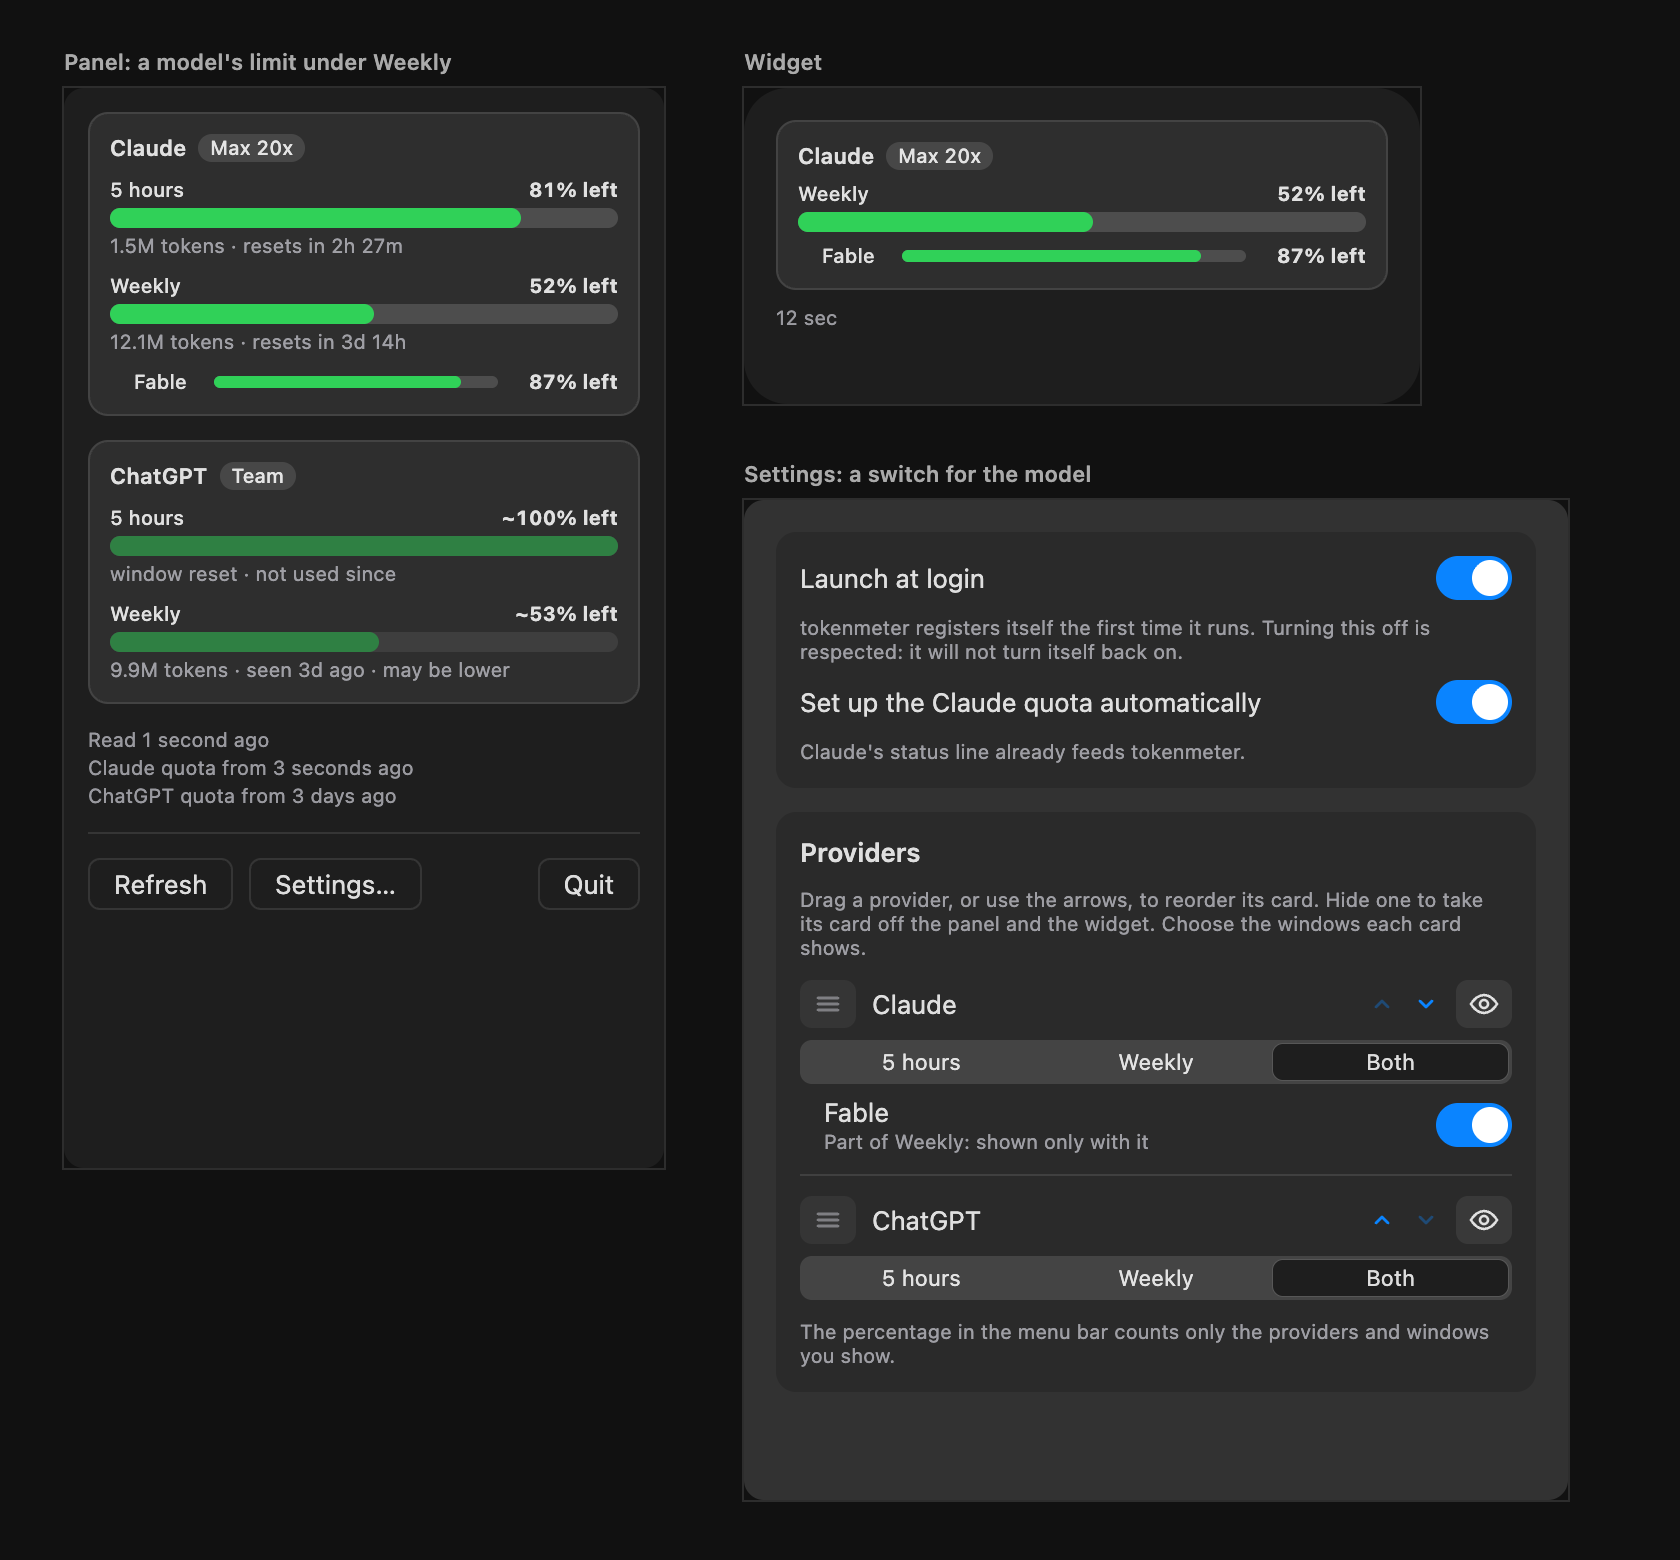
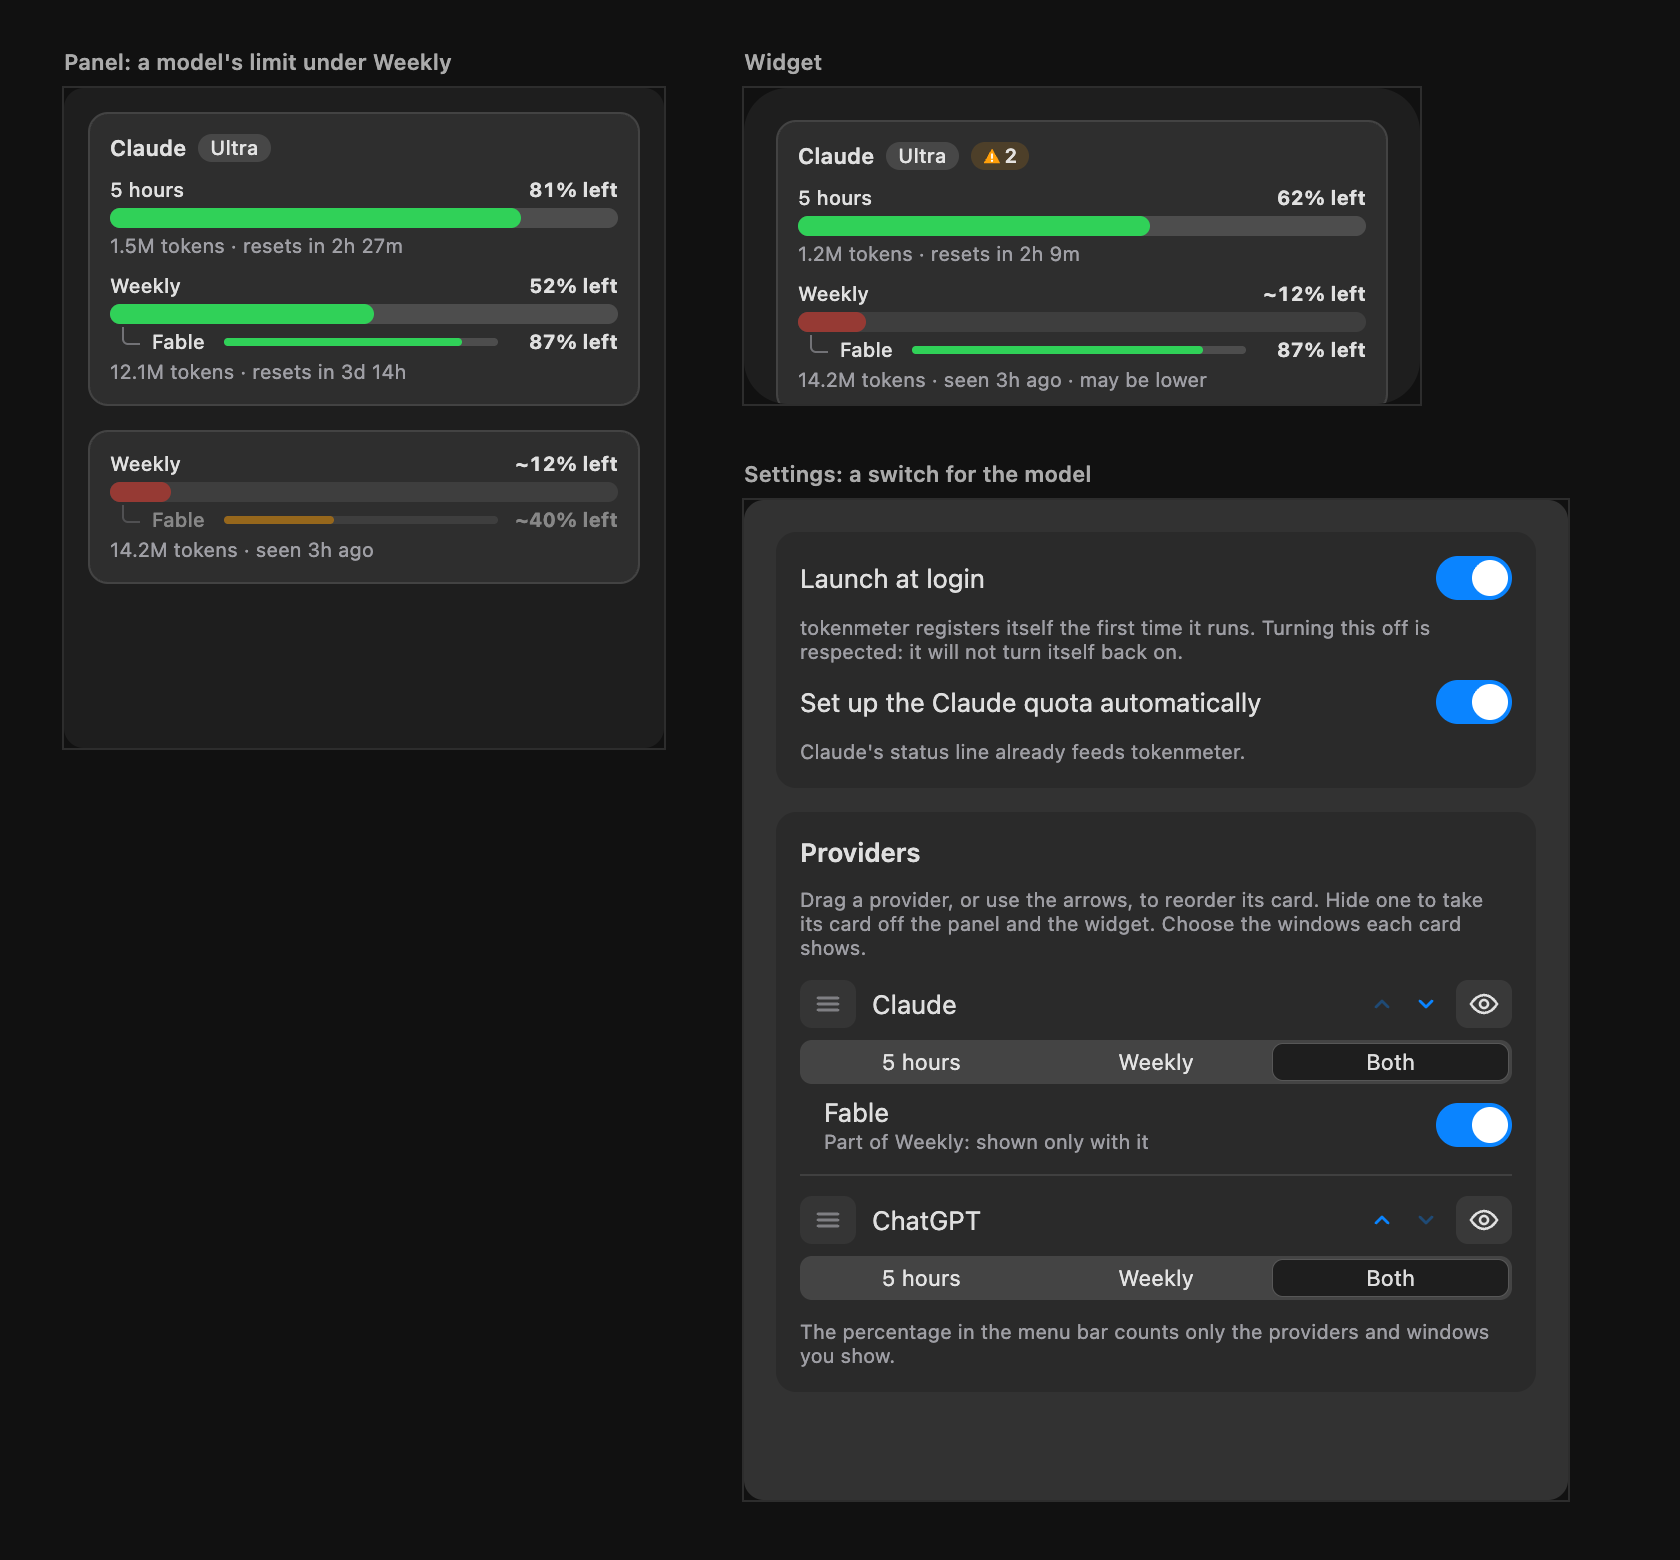
docs: describe the bracket line of a model's limit

diff --git a/docs/features/2026-10-30-model-limits/proposal.md b/docs/features/2026-10-30-model-limits/proposal.md
@@ -6,8 +6,8 @@ sidebar_position: 2
 
 # Model limits, proposal
 
-The design that was chosen after three rounds: a compact line, a switch of the design system in Settings, and Settings drawn
-from the current screen. It was drawn as a canvas of artboards in Claude, which is deleted once the feature is implemented;
+The design that was chosen after several rounds: a thin line joined to Weekly's bar by a bracket (variant S2), a switch of the
+design system in Settings, and Settings drawn from the current screen. It was drawn as a canvas of artboards in Claude, which is deleted once the feature is implemented;
 this page is what stays. The decisions behind it are in [ADR 0034](../../adr/0034-limits-can-be-scoped-to-a-model.md).
 
 ## The proposal
@@ -18,11 +18,11 @@ this page is what stays. The decisions behind it are in [ADR 0034](../../adr/003
 
 ## What changes
 
-| Surface  | What it shows                                                                                                                                       | Why                                                                             |
-| :------- | :-------------------------------------------------------------------------------------------------------------------------------------------------- | :------------------------------------------------------------------------------ |
-| Panel    | Under Weekly, one line indented: the model's name, a thin bar (6px) and the figure ("87% left"). The help text says "Part of Weekly" and the reset. | The limit is part of the week, and a line costs the card almost no height.      |
-| Widget   | The same line, in the card of its provider.                                                                                                         | The widget draws what the snapshot holds.                                       |
-| Settings | Under the choice of windows of the provider, a row with the model's name, "Part of Weekly: shown only with it" and a `Toggle`.                      | The model is not a third window: it needs Weekly, so it is a switch of its own. |
+| Surface  | What it shows                                                                                                                                                                                                 | Why                                                                                     |
+| :------- | :------------------------------------------------------------------------------------------------------------------------------------------------------------------------------------------------------------ | :-------------------------------------------------------------------------------------- |
+| Panel    | Right under Weekly's bar, before its detail line, one line joined to the bar by a bracket: the model's name, a thin bar (4px) and the figure ("87% left"). The help text says "Part of Weekly" and the reset. | The bracket says the limit is part of the week, and the line costs the card about 14px. |
+| Widget   | The same line, in the card of its provider.                                                                                                                                                                   | The widget draws what the snapshot holds.                                               |
+| Settings | Under the choice of windows of the provider, a row with the model's name, "Part of Weekly: shown only with it" and a `Toggle`.                                                                                | The model is not a third window: it needs Weekly, so it is a switch of its own.         |
 
 ## Rules
 

diff --git a/docs/features/2026-10-30-model-limits/index.md b/docs/features/2026-10-30-model-limits/index.md
@@ -7,7 +7,7 @@ date: 2026-10-30
 
 # Model limits
 
-Some plans have a limit for one model that is part of the weekly limit. tokenmeter shows it as a compact line under Weekly.
+Some plans have a limit for one model that is part of the weekly limit. tokenmeter shows it as a thin line joined to Weekly's bar.
 
 |        |                                                                 |
 | :----- | :-------------------------------------------------------------- |
@@ -24,11 +24,11 @@ no model and no provider, and it appears only when the data has it.
 
 ## The nucleus
 
-| Part                | Page                                                          | Status                            |
-| :------------------ | :------------------------------------------------------------ | :-------------------------------- |
-| Proposal            | [Proposal](./proposal.md)                                     | built as chosen: one compact line |
-| Implementation plan | [Implementation plan](./plan.md)                              | done, steps 1 to 6                |
-| Decisions           | [ADR 0034](../../adr/0034-limits-can-be-scoped-to-a-model.md) | accepted                          |
+| Part                | Page                                                          | Status                          |
+| :------------------ | :------------------------------------------------------------ | :------------------------------ |
+| Proposal            | [Proposal](./proposal.md)                                     | built as chosen: a bracket line |
+| Implementation plan | [Implementation plan](./plan.md)                              | done, steps 1 to 6              |
+| Decisions           | [ADR 0034](../../adr/0034-limits-can-be-scoped-to-a-model.md) | accepted                        |
 
 ## Related
 

diff --git a/docs/use/enable-claude-quota.md b/docs/use/enable-claude-quota.md
@@ -105,7 +105,7 @@ values stay and the panel shows how old they are; see [Reading the Bars](./bars.
 ## A limit for one model
 
 Some plans have a limit for one model that is part of the weekly limit (the usage page shows it, for example, under
-**This week**). tokenmeter shows it as a compact line under **Weekly**, only when your plan has it. The figure comes from the
+**This week**). tokenmeter shows it as a thin line under **Weekly**'s bar, joined to it by a bracket, only when your plan has it. The figure comes from the
 usage copy Claude Code keeps in `~/.claude.json`, which Claude Code only refreshes when it runs `/usage`. So tokenmeter asks
 it to: with **Set up the Claude quota automatically** on, the **Refresh** button and a timer of 15 minutes run
 `claude -p "/usage"` in the background, in `~/.tokenmeter/claude/`, without a session file. Claude Code reads its own
